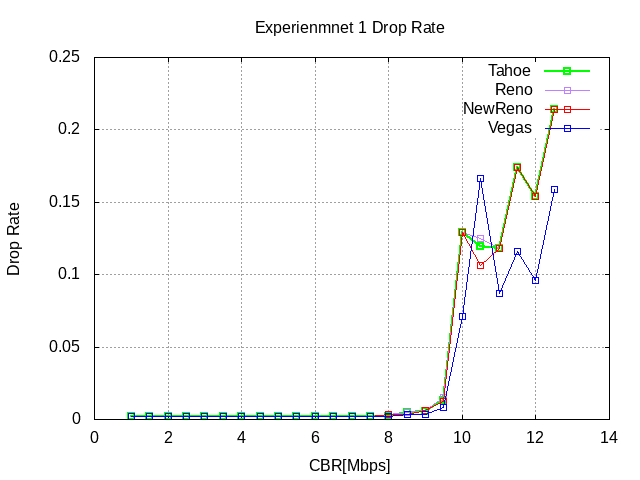
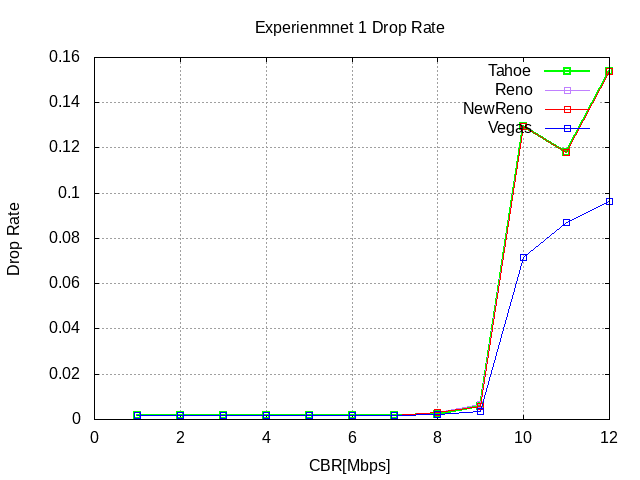
-Check droprate in exp3

diff --git a/experiment3/experiment3.py b/experiment3/experiment3.py
@@ -18,12 +18,11 @@ class C:
 # Generate trace file
 for tcp_var in ['Reno', 'SACK']:
     for que_alg in ['DropTail', 'RED']:
-        os.system("/course/cs4700f12/ns-allinone-2.35/bin/ns " + "experiment3.tcl " + tcp_var + " " + str(que_alg))
+        os.system("/course/cs4700f12/ns-allinone-2.35/bin/ns " + "experiment3.tcl " + str(tcp_var) + " " + str(que_alg))
 
 # TODO -- shouldn't the opening and closing of throughput and latency files be outside the for loop?
 
 for que_alg in ['DropTail', 'RED']:
-
     for tcp_var in ['Reno', 'SACK']:
         # Open the throughput files for TCP variants and rates and calculate the throughput.
         filename = "exp3_output/experiment3_" + str(tcp_var) + "_" + str(que_alg) + ".out"
@@ -57,9 +56,59 @@ for que_alg in ['DropTail', 'RED']:
                     "time: " + str(log_period) + " CBR: " + str(cbr_throughput) + " TCP: " + str(tcp_throughput) + '\n')
                 log_period += 1
                 # TODO -- generate graph for both conditions: resetting the recvdPacketSizes to zero and remaining unchanged
+                tcp_recvdPacketSize = 0
+                cbr_recvdPacketSize = 0
 
         throughput.close()
         # throughput END
+
+        # Droprate
+        filename = "exp3_output/experiment3_" + str(tcp_var) + "_" + str(que_alg) + ".out"
+        f = open(filename)
+        lines = f.readlines()
+        f.close()
+        sendNum = 0
+        recvdNum = 0
+        sendNum1 = 0
+        recvdNum1 = 0
+        dropratef = open('exp3_data/3_' + str(tcp_var) + '_' + str(que_alg) + '_droprate.dat', 'w')
+        for line in lines:
+            entry = C(line)
+            # Packet type is tcp and it's acks within which we need to count sent - received / sent
+            if entry.pkt_type in ['tcp', 'ack']:
+                # Packets in the queue
+                if entry.event == "+":
+                    sendNum += 1
+                # Packets received
+                if entry.event == "r":
+                    recvdNum += 1
+            if entry.pkt_type == 'cbr':
+                # Packets in the queue
+                if entry.event == "+":
+                    sendNum1 += 1
+                # Packets received
+                if entry.event == "r":
+                    recvdNum1 += 1
+            if entry.time - log_period > 1:
+                if sendNum == 0:
+                    droprate = '0'
+                else:
+                    droprate = float(sendNum - recvdNum) / float(sendNum)
+                if sendNum1 == 0:
+                    droprate1 = '0'
+                else:
+                    droprate1 = float(sendNum1 - recvdNum1) / float(sendNum1)
+                dropratef.write(
+                    "time: " + str(log_period) + " CBR: " + str(droprate1) + " TCP: " + str(droprate) + '\n')
+                log_period += 1
+                sendNum = 0
+                recvdNum = 0
+                sendNum1 = 0
+                recvdNum1 = 0
+                droprate = 0
+                droprate1 = 0
+
+        dropratef.close()
 
         # Open the latency files for TCP Variants and rates and calculate the delay.
         filename = "exp3_output/experiment3_" + str(tcp_var) + "_" + str(que_alg) + ".out"

diff --git a/experiment1/experiment1.py b/experiment1/experiment1.py
@@ -2,8 +2,6 @@
 
 import os
 
-import numpy
-
 
 # Getting all the data from the trace file into variables.
 class C:
@@ -20,7 +18,7 @@ class C:
 
 # Generate trace file
 for tcp_var in ['Tahoe', 'Reno', 'Newreno', 'Vegas']:
-    for cbr_rate in numpy.arange(1, 12, 0.5):
+    for cbr_rate in range(1, 13):
         os.system("/course/cs4700f12/ns-allinone-2.35/bin/ns " + "experiment1.tcl " + tcp_var + " " + str(cbr_rate))
 
 # Data files used for graph generation.
@@ -29,7 +27,7 @@ f2 = open('exp1_data/1_droprate.dat', 'w')
 f3 = open('exp1_data/1_latency.dat', 'w')
 
 # CBR rate varying between 1 and 12mb until it reaches bottleneck capacity.
-for cbr_rate in numpy.arange(1, 12, 0.5):
+for cbr_rate in range(1, 13):
     throughput = ''
     droprate = ''
     latency = ''
